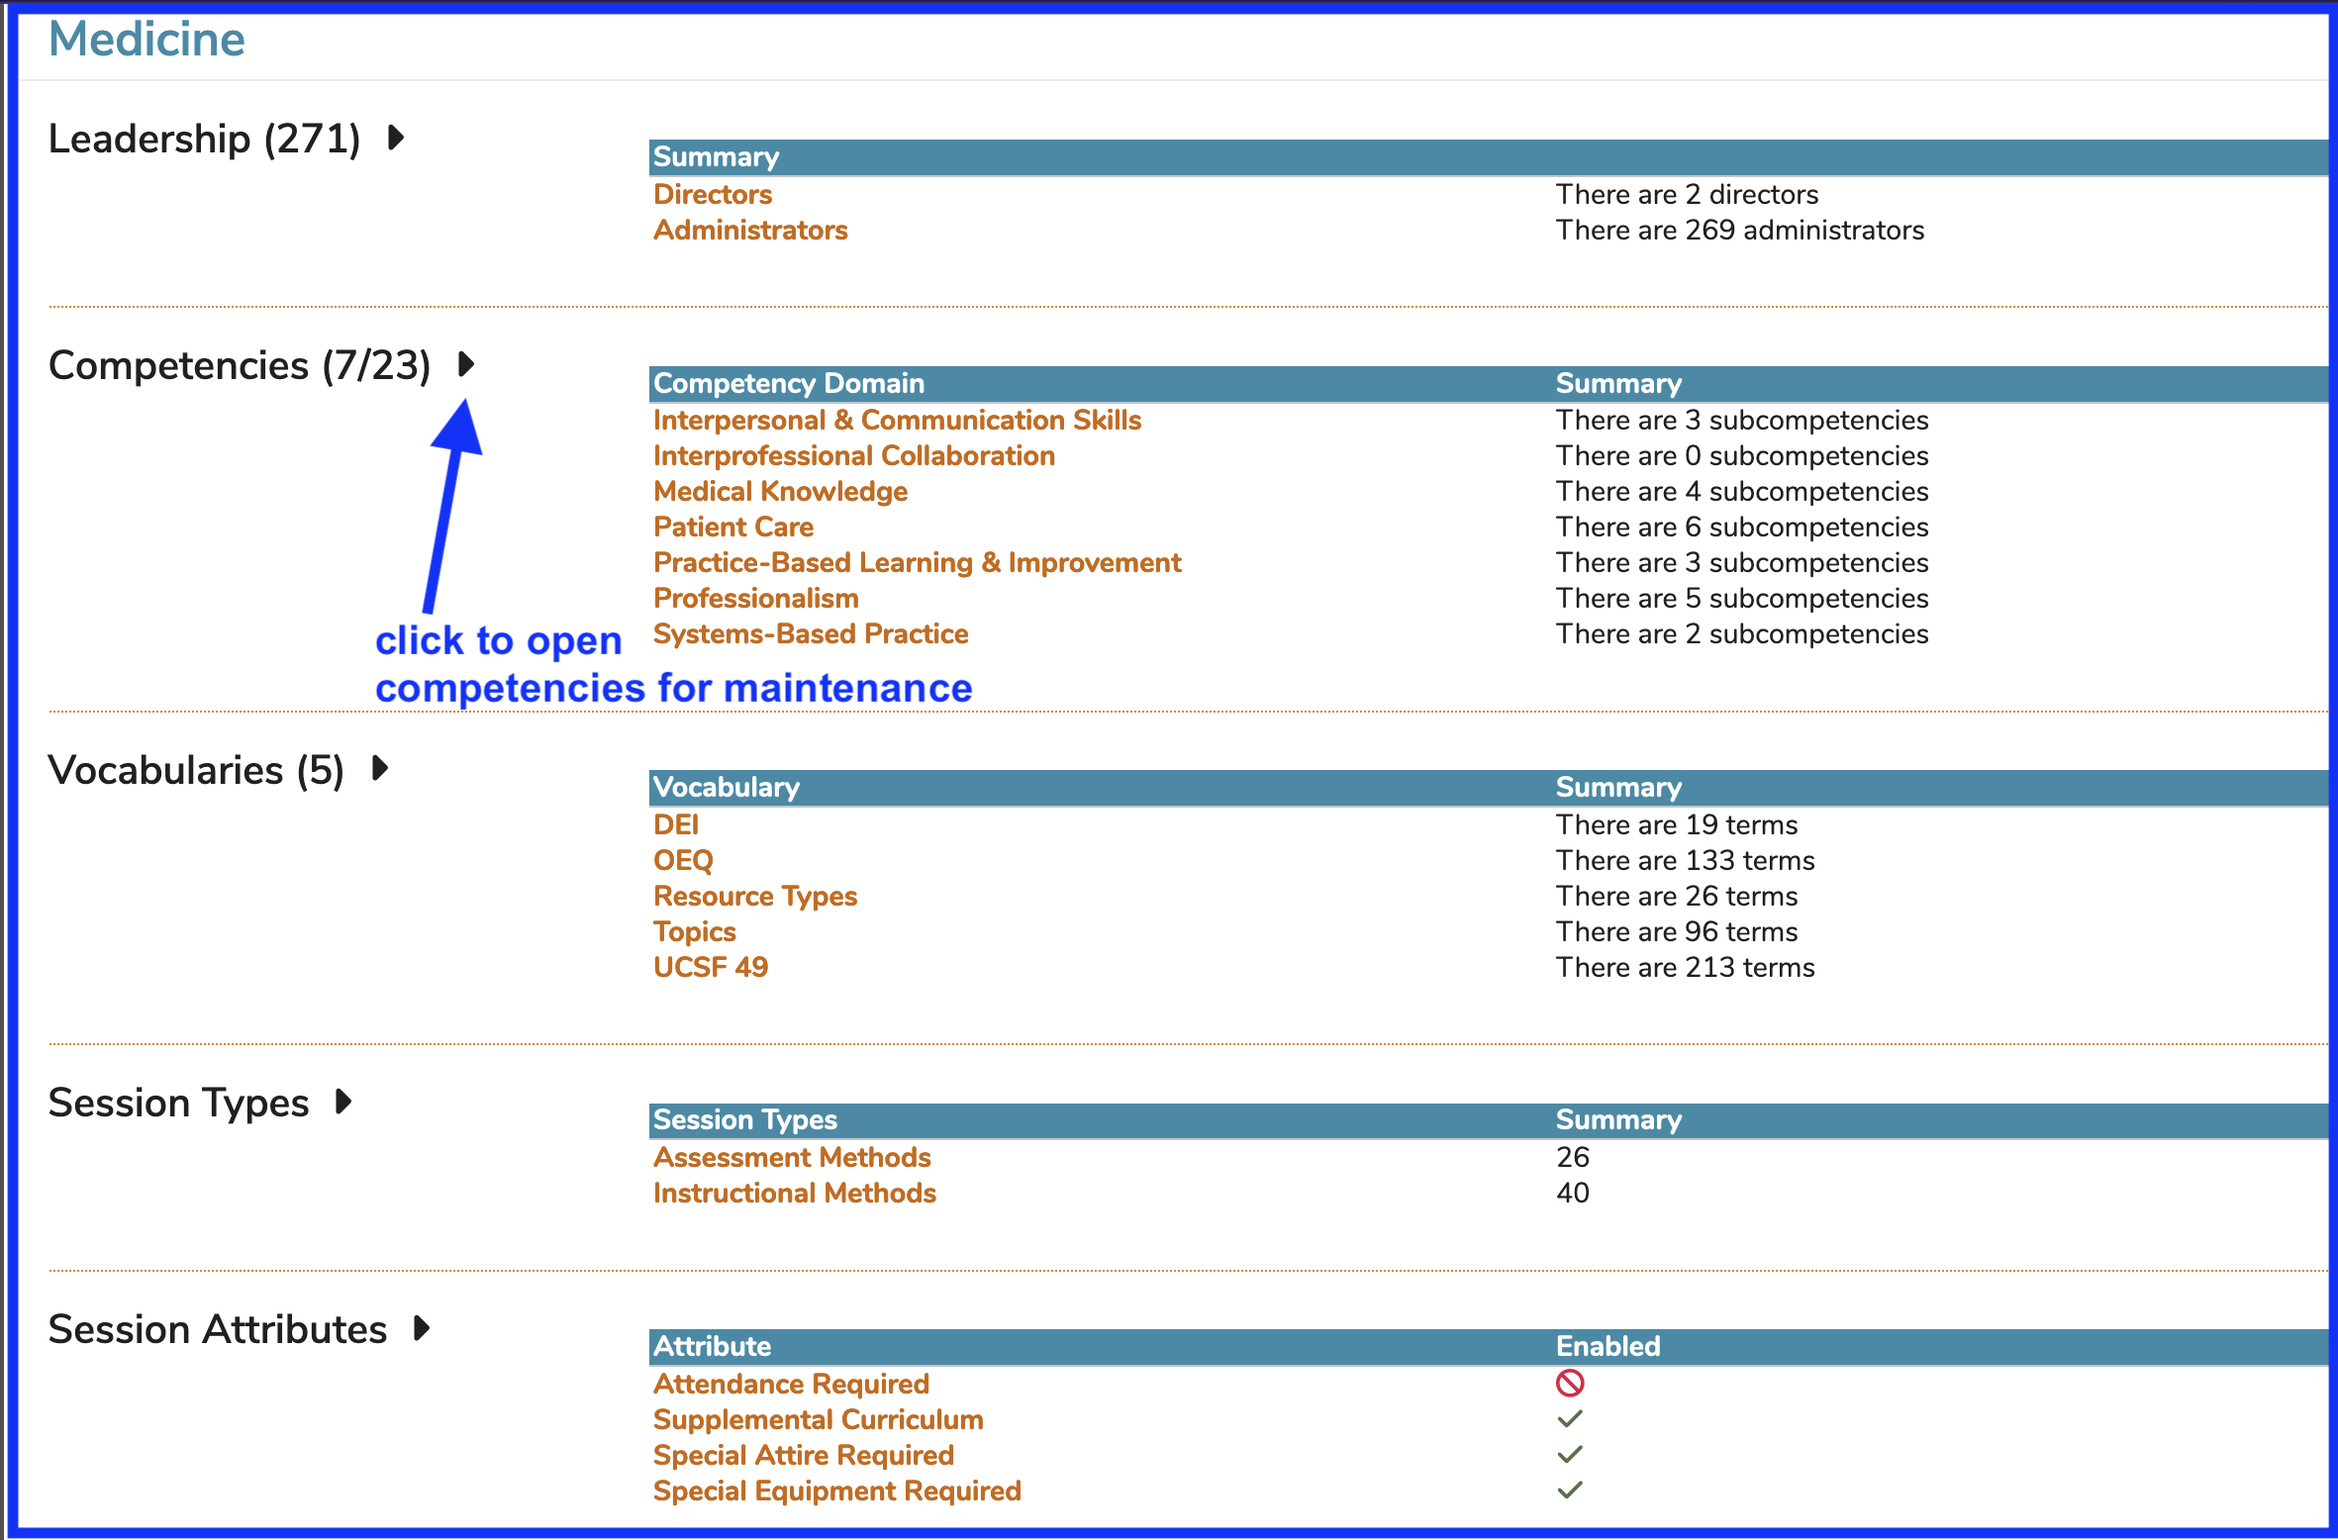
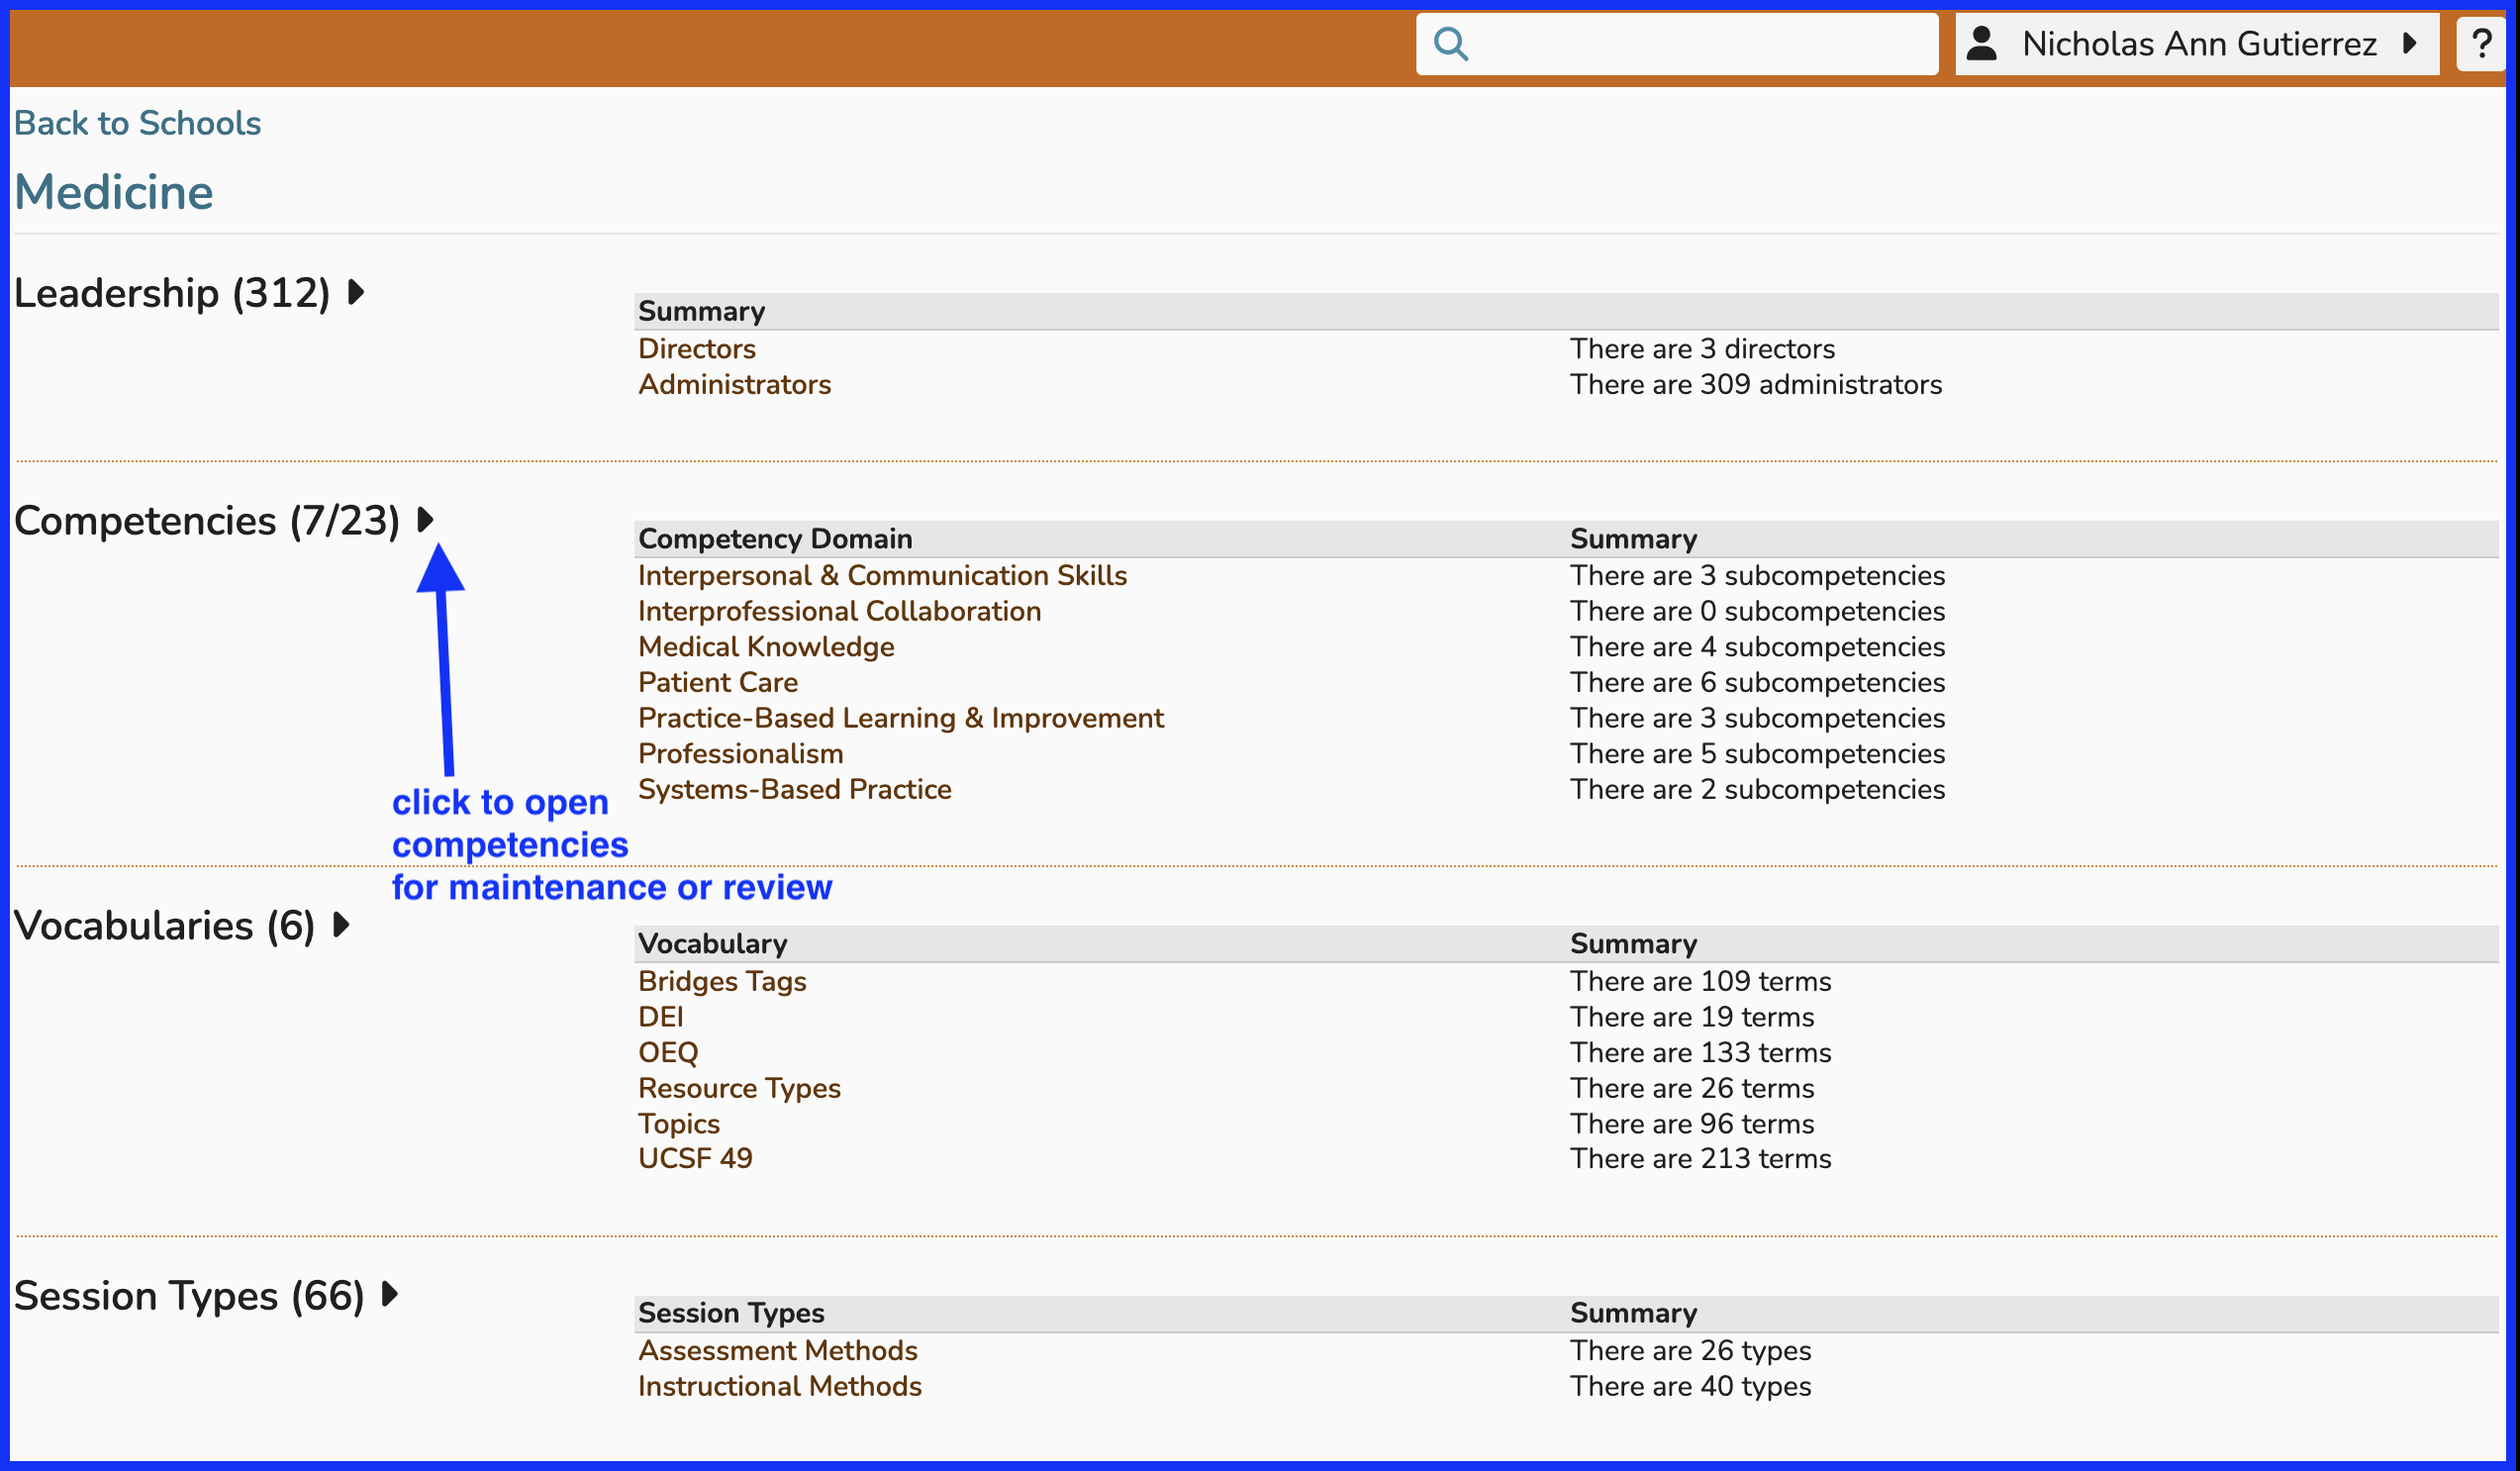
image updated - text as well

Changed region(s): [[0.0, 0.0, 1.0, 1.0]]

diff --git a/schools/competencies.md b/schools/competencies.md
@@ -11,7 +11,7 @@ Competency domains and sub-domains can be managed within the Ilios application. 
 
 ![select school](../images/schools/competencies/select_school.png)
 
-Now that the School of Medicine has been selected, competencies can be maintained using the following interface and commands. An oveview of the Schools screen is shown below. Maintaining email addresses and now defunct Curriculum Inventory information is not shown in the screen shot. Aside from those, the screen shot is complete.
+Now that the School of Medicine has been selected, competencies can be maintained using the following interface and commands. An oveview of the Schools screen is shown below. The Learning Material Attributes, Session Attributes, Emails, and Institutional Information sections are not shown in the screen shot. Aside from those, the screen shot is complete at least as far as the upper part of the screen is concerned.
 
 ## School Screen Overview
 
